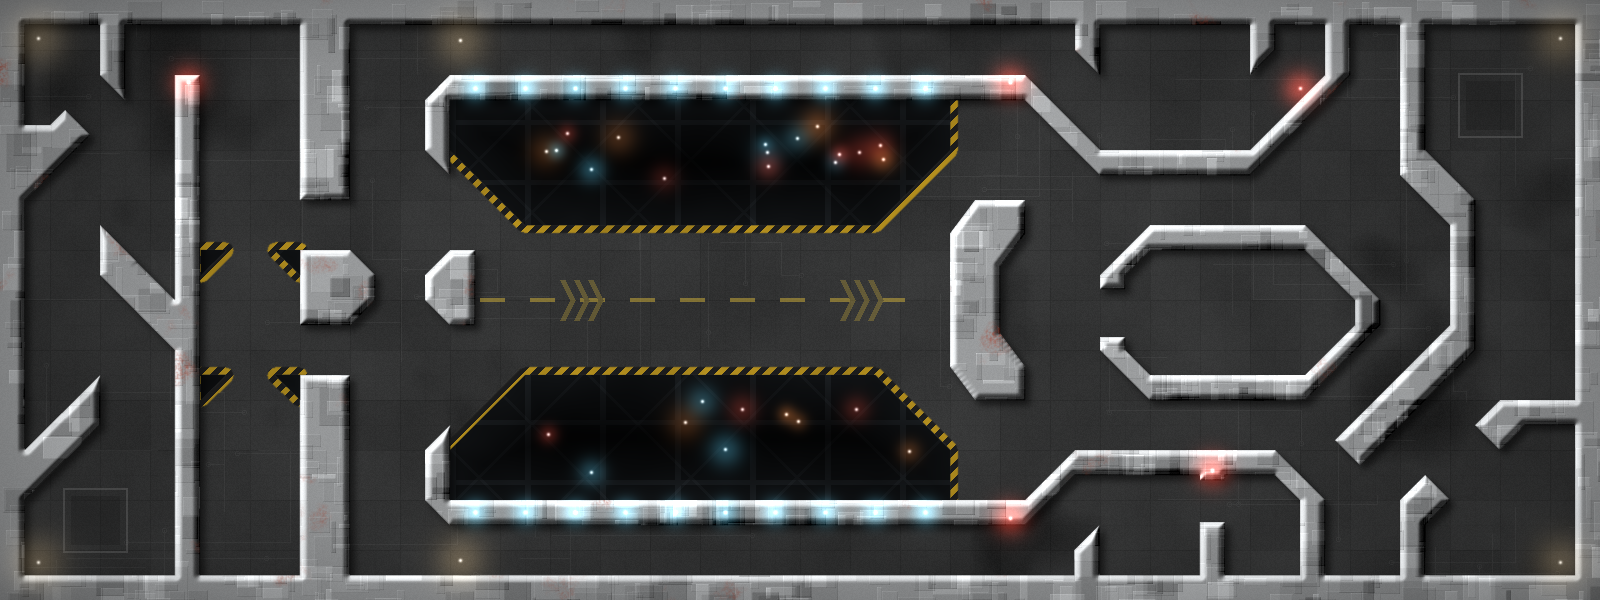
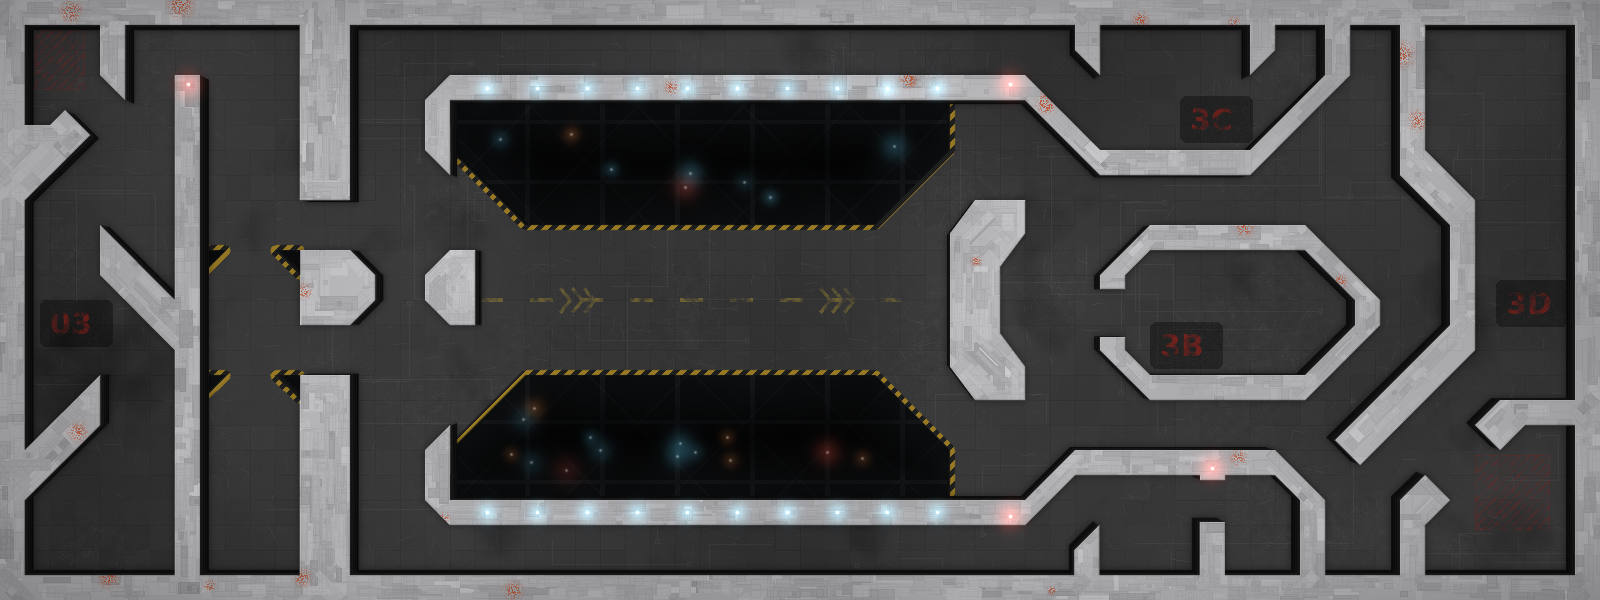
Bridge art: extruded walls, finer detail, closer to the other levels
Second pass after comparing with backgrounds 0-2 up close:
- walls are extruded along z toward a camera over the map centre and
  rendered dark, with stepped side faces, instead of a big bevel
- wall tops are flat plates laid along each wall's run with fine
  outlines and a soft 1px rim; smooth large-scale shading
- floor gets plate outlines, circuit traces, dust patches, scratches,
  stains and stencilled sector decals
- chasm lips drop away the same way; dotty rust splats; subtler lights

Claude-Session: https://claude.ai/code/session_01H47hBDPQBM8s5zFvCsXCoj

diff --git a/tools/art/paint_bridge.py b/tools/art/paint_bridge.py
@@ -4,18 +4,22 @@
 
 Reads source/library/level assets/level3/shape 1.json (black = wall, #999999 =
 chasm the player can't cross but shots fly over, white = floor) and writes
-source/library/level assets/background3/shape 1/bitmap 1.png at 1600x600, in the style
-of the other levels' backgrounds: dark tiled floor, light greebled metal walls
-with bevel and drop shadow, hazard markings, rust, and additive light glows.
-The output lines up with the collision map pixel for pixel, so the walls you see
-are the walls you hit. Seeded, so re-running gives the same image.
+source/library/level assets/background3/shape 1/bitmap 1.png at 1600x600.
+
+It follows how the other levels' backgrounds were made: wall tops are flat light
+plates with fine panel lines, and the walls are extruded along z and rendered
+dark, seen from a camera above the middle of the map, so each wall shows a dark
+stepped side face on the side that faces the centre. The floor is dark plating
+with faint panel and circuit lines, dust patches, scratches, stencilled decals
+and soft lighting. The wall tops line up with the collision map pixel for pixel.
+Seeded, so re-running gives the same image.
 """
 import json
 import os
 import re
 
 import numpy as np
-from PIL import Image, ImageDraw
+from PIL import Image, ImageDraw, ImageFont
 from scipy import ndimage as ndi
 
 ROOT = os.path.join(os.path.dirname(__file__), '..', '..')
@@ -60,12 +64,11 @@ for p in shape['paths']:
 
 
 def down(m):
-    return m.reshape(H, SS, W, SS).mean(axis=(1, 3))
+    return m.reshape(H, SS, W, SS).mean(axis=(1, 3)).astype(np.float32)
 
 
 wall = down(label == 1)    # coverage 0..1, anti-aliased
 chasm = down(label == 2)
-floor = np.clip(1 - wall - chasm, 0, 1)
 wallb, chasmb = wall > 0.5, chasm > 0.5
 
 yy, xx = np.mgrid[0:H, 0:W].astype(np.float32)
@@ -89,128 +92,243 @@ def rgb(h):
     h = h.lstrip('#'); return np.array([int(h[i:i + 2], 16) / 255 for i in (0, 2, 4)], np.float32)
 
 
-img = np.zeros((H, W, 3), np.float32)
+def layer(draw_fn, mode='L'):
+    im = Image.new(mode, (W, H), 0); draw_fn(ImageDraw.Draw(im)); return np.array(im, np.float32) / 255
+
+
+def sample(a, sy, sx):
+    return ndi.map_coordinates(a, [sy, sx], order=1, mode='nearest')
+
+
+# Pseudo-perspective: a camera above the middle of the map. A wall's base sits
+# nearer the centre than its top, by K * (distance from centre) at full height.
+CX, CY, K, MAXOFF = W / 2, H / 2, 0.02, 9.0
+vx = np.clip(K * (xx - CX), -MAXOFF, MAXOFF)
+vy = np.clip(K * (yy - CY), -MAXOFF, MAXOFF)
+
+
+def extrude(solid, steps=14):
+    """Side faces of `solid` (tops) dropping toward the centre. Returns
+    (coverage, t) where t in 0..1 is how far down the face (0 = top edge)."""
+    cov = np.zeros((H, W), np.float32); tt = np.ones((H, W), np.float32)
+    for i in range(steps, 0, -1):  # far (base) first, so nearer steps win
+        t = i / steps
+        s = sample(solid, yy + t * vy, xx + t * vx)
+        hit = s > 0.5
+        tt[hit] = t; cov = np.maximum(cov, s)
+    return cov * (1 - solid), tt
+
 
 # ---------------------------------------------------------------- floor
-grime = noise(80, 5, 1)
-base = 0.20 + 0.05 * (grime - 0.5) + 0.025 * (rng.random((H, W)) - 0.5)
-# 25px deck plates (the level is laid out on a 25px grid) with darker seams
-seam = ((xx % 50 < 1) | (yy % 50 < 1)).astype(np.float32) * 0.5 + ((xx % 25 < 1) | (yy % 25 < 1)) * 0.25
-base -= 0.03 * seam
-plate_var = rng.random((H // 50 + 1, W // 50 + 1)).astype(np.float32)
-base += 0.02 * (np.kron(plate_var, np.ones((50, 50)))[:H, :W] - 0.5)
-# scorch / oil blotches
-blot = np.clip((noise(120, 3, 7) - 0.62) * 4, 0, 1)
-base -= 0.07 * blot
-floor_col = base[..., None] * rgb('#e6e9ea')[None, None] / 0.9
-img += floor_col
+base = np.full((H, W), 0.215, np.float32)
+base += 0.05 * (blur(noise(220, 2, 1), 30) - 0.5) * 2        # soft lighting pools
+base += 0.012 * (rng.random((H, W)) - 0.5)                    # fine grain
 
-# faint circuit traces on the floor, like levels 1 and 2
-trace = Image.new('L', (W, H), 0); td = ImageDraw.Draw(trace)
-for _ in range(70):
-    x, y = rng.integers(25, W - 25), rng.integers(25, H - 25)
-    for _ in range(rng.integers(2, 5)):
-        if rng.random() < 0.5: nx, ny = x + rng.integers(-180, 180), y
-        else: nx, ny = x, y + rng.integers(-120, 120)
-        td.line([(x, y), (nx, ny)], fill=255, width=1); x, y = nx, ny
-    td.ellipse([x - 2, y - 2, x + 2, y + 2], outline=255)
-img += (np.array(trace, np.float32) / 255 * 0.035)[..., None]
+# panel lines: a fine 25px grid plus a scatter of larger plate outlines
+lines = layer(lambda d: [d.line([(x, 0), (x, H)], fill=60) for x in range(0, W, 25)] +
+                        [d.line([(0, y), (W, y)], fill=60) for y in range(0, H, 25)])
+def plates(d):
+    for _ in range(260):
+        x, y = rng.integers(0, W // 25) * 25, rng.integers(0, H // 25) * 25
+        w, h = rng.integers(1, 6) * 25, rng.integers(1, 5) * 25
+        d.rectangle([x, y, x + w, y + h], outline=int(rng.integers(90, 170)))
+    for _ in range(160):  # small inset squares
+        x, y = rng.integers(0, W), rng.integers(0, H); s = rng.integers(4, 14)
+        d.rectangle([x, y, x + s, y + s], outline=90)
+plate_lines = layer(plates)
+base -= 0.018 * lines + 0.03 * plate_lines
+base += 0.01 * ndi.shift(plate_lines, (1, 1), order=0)        # tiny lip highlight
 
-# ---------------------------------------------------------------- chasm (the bridge spans it)
-inside = ndi.distance_transform_edt(chasmb)
-depth = np.clip(inside / 60, 0, 1)
-ch = (0.10 - 0.08 * depth)[..., None] * rgb('#8fa3b5')[None, None]
-# girders far below, receding: a lattice that darkens with depth
-lat = (((xx + yy * 0.0) % 75 < 6) | (yy % 60 < 5)).astype(np.float32)
-diag = (((xx + yy) % 106 < 4) | ((xx - yy) % 106 < 4)).astype(np.float32)
-ch += ((0.06 * lat + 0.035 * diag) * (1 - 0.6 * depth))[..., None] * rgb('#9fb0c0')[None, None]
-ch *= (0.75 + 0.5 * noise(60, 3, 9))[..., None]
-img = img * (1 - chasm[..., None]) + ch * chasm[..., None]
+# plate tone variation
+tone = rng.random((H // 25 + 1, W // 25 + 1)).astype(np.float32)
+base += 0.012 * (np.kron(tone, np.ones((25, 25), np.float32))[:H, :W] - 0.5)
 
-# ---------------------------------------------------------------- walls: greebled metal panels
-pan = np.full((H, W), 0.66, np.float32)
-for _ in range(2600):  # overlapping plates of slightly different tone
-    w, h = rng.integers(4, 40), rng.integers(4, 40)
-    x, y = rng.integers(0, W), rng.integers(0, H)
-    v = rng.normal(0, 0.06)
-    pan[y:y + h, x:x + w] += v
-    pan[y:y + 1, x:x + w] += 0.05; pan[y + h - 1:y + h, x:x + w] -= 0.06
-    pan[y:y + h, x:x + 1] += 0.04; pan[y:y + h, x + w - 1:x + w] -= 0.05
-pan = np.clip(pan, 0.35, 0.95)
-pan += 0.03 * (rng.random((H, W)) - 0.5)
-# bevel: height from distance to the wall edge, lit from the top-left
-dist = ndi.distance_transform_edt(wallb).astype(np.float32)
-height = np.clip(dist / 7, 0, 1) ** 0.6
-gy, gx = np.gradient(blur(height, 1.0))
-light = np.clip(-(gx * -0.7 + gy * -0.7) * 6, -0.5, 0.5)
-edge = np.clip(1 - dist / 2.0, 0, 1)
-wcol = (pan + light * 0.9 - 0.25 * edge)[..., None] * rgb('#e9ecee')[None, None]
+# circuit traces with rounded corners and terminal pads
+def traces(d):
+    for _ in range(55):
+        x, y = int(rng.integers(30, W - 30)), int(rng.integers(30, H - 30))
+        horiz = rng.random() < 0.5
+        pts = [(x, y)]
+        for _ in range(int(rng.integers(2, 5))):
+            if horiz: x = int(np.clip(x + rng.integers(-220, 220), 5, W - 5))
+            else: y = int(np.clip(y + rng.integers(-150, 150), 5, H - 5))
+            pts.append((x, y)); horiz = not horiz
+        d.line(pts, fill=255, width=1, joint='curve')
+        d.rectangle([pts[-1][0] - 2, pts[-1][1] - 2, pts[-1][0] + 2, pts[-1][1] + 2], outline=255)
+base += 0.035 * layer(traces)
 
-# rust and red paint flecks on the walls, like the other levels
-rust = blur(np.clip((noise(40, 4, 3) - 0.74) * 5, 0, 1) * (rng.random((H, W)) > 0.6), 0.7)
-wcol = wcol * (1 - 0.6 * rust[..., None]) + rust[..., None] * rgb('#a8341f')[None, None] * 0.6
+# dust: clusters of fine speckle
+dust = np.zeros((H, W), np.float32)
+for _ in range(40):
+    cx, cy, r = rng.uniform(0, W), rng.uniform(0, H), rng.uniform(15, 45)
+    dust += np.exp(-((xx - cx) ** 2 + (yy - cy) ** 2) / (2 * r * r))
+speck = rng.random((H, W)) > 0.55
+base += 0.05 * np.clip(dust, 0, 1) * speck * (noise(6, 2, 5) - 0.3)
 
-# drop shadow onto the floor and into the chasm (light from the top-left)
-shadow = blur(ndi.shift(wall, (5, 5), order=1, mode='nearest'), 3.5)
-img *= (1 - 0.55 * shadow * (1 - wall))[..., None]
-img = img * (1 - wall[..., None]) + wcol * wall[..., None]
+# scratches: short thin light strokes, mostly along the traffic lanes
+def scratches(d):
+    for _ in range(900):
+        x, y = rng.uniform(0, W), rng.uniform(0, H)
+        a = rng.normal(0, 0.35) + (0 if rng.random() < 0.6 else np.pi / 2)
+        l = rng.uniform(3, 18)
+        d.line([(x, y), (x + l * np.cos(a), y + l * np.sin(a))], fill=int(rng.integers(60, 200)))
+base += 0.05 * layer(scratches)
 
-# ---------------------------------------------------------------- markings on the floor
-over = Image.new('RGBA', (W, H), (0, 0, 0, 0)); od = ImageDraw.Draw(over)
+# oil / scorch stains
+stain = np.clip((noise(90, 4, 7) - 0.66) * 4, 0, 1)
+base -= 0.06 * stain
 
-# yellow/black hazard rim round both chasms, on the floor side
-rim = (ndi.distance_transform_edt(~chasmb) <= 8) & ~chasmb & ~wallb
-stripe = ((xx + yy) % 16 < 8)
-hz = np.where(stripe, 1, 0)[..., None] * rgb('#d7a91c')[None, None] + np.where(stripe, 0, 1)[..., None] * rgb('#1b1b1b')[None, None]
-hz *= (0.8 + 0.2 * noise(30, 3, 4))[..., None]
-rimf = blur(rim, 0.6) * floor
-img = img * (1 - 0.85 * rimf[..., None]) + hz * 0.85 * rimf[..., None]
+img = base[..., None] * np.array([1.0, 1.0, 1.02], np.float32)[None, None]
 
-# bridge deck: centre-line dashes and direction chevrons across the span
+# ---------------------------------------------------------------- decals
+def decals(d):
+    try:
+        font = ImageFont.truetype('/usr/share/fonts/truetype/dejavu/DejaVuSans-Bold.ttf', 30)
+        small = ImageFont.truetype('/usr/share/fonts/truetype/dejavu/DejaVuSans-Bold.ttf', 14)
+    except OSError:
+        font = small = ImageFont.load_default()
+    return font, small
+
+font, small = decals(None)
+red = Image.new('L', (W, H), 0); rd = ImageDraw.Draw(red)
+yel = Image.new('L', (W, H), 0); ydr = ImageDraw.Draw(yel)
+plate = Image.new('L', (W, H), 0); pd = ImageDraw.Draw(plate)
+# stencilled sector numbers on dark plates, as in Drop Zone ("326")
+blocked = ndi.binary_dilation(wallb | chasmb, iterations=6)
+
+
+def clear_spot(x, y, w, h):
+    # nearest spot to (x, y) where a w*h decal sits on open floor
+    for r in range(0, 200, 4):
+        for dx, dy in [(0, 0), (r, 0), (-r, 0), (0, r), (0, -r), (r, r), (-r, r), (r, -r), (-r, -r)]:
+            X, Y = x + dx, y + dy
+            if 0 <= X and 0 <= Y and X + w < W and Y + h < H and not blocked[Y:Y + h, X:X + w].any():
+                return X, Y
+    raise ValueError((x, y))
+
+
+for (x, y, txt) in [(40, 300, '03'), (1150, 410, "3B"), (1180, 100, '3C'), (1500, 280, '3D')]:
+    w = 26 * len(txt) + 20
+    x, y = clear_spot(x, y, w, 46)
+    pd.rounded_rectangle([x, y, x + w, y + 46], 6, fill=255)
+    rd.text((x + 10, y + 6), txt, font=font, fill=230)
+# bridge deck: centre dashes and chevrons
 for x in range(480, 930, 50):
-    od.rectangle([x, 298, x + 24, 301], fill=(225, 190, 60, 120))
-for cx in (560, 840):
+    ydr.rectangle([x, 298, x + 22, 301], fill=200)
+for cx in (560, 820):
     for k in range(3):
-        x0 = cx + k * 14
-        od.polygon([(x0, 280), (x0 + 10, 300), (x0, 320), (x0 + 5, 320), (x0 + 15, 300), (x0 + 5, 280)], fill=(225, 190, 60, 70))
+        x0 = cx + k * 12
+        ydr.line([(x0, 288), (x0 + 10, 300), (x0, 312)], fill=170, width=3)
+# red hatched danger boxes in the two big end rooms
+for (x, y, w, h) in [(1475, 455, 75, 75), (35, 30, 50, 60)]:
+    box = Image.new('L', (w, h), 0); bd = ImageDraw.Draw(box)
+    for i in range(-h, w, 9): bd.line([(i, h), (i + h, 0)], fill=150, width=3)
+    bd.rectangle([0, 0, w - 1, h - 1], outline=200)
+    red.paste(box, (x, y), box)
 
-# east and west landing pads
-for (x, y) in [(1490, 105), (95, 520)]:
-    od.rectangle([x - 32, y - 32, x + 32, y + 32], outline=(200, 200, 200, 50), width=2)
-    od.rectangle([x - 24, y - 24, x + 24, y + 24], fill=(0, 0, 0, 35))
+wear = np.clip(noise(5, 2, 11) * 1.6 - 0.25, 0, 1)            # chipped paint
+pl = np.array(plate, np.float32) / 255
+img *= (1 - 0.35 * pl)[..., None]
+img += (0.025 * pl * (rng.random((H, W)) - 0.5))[..., None]
+ra = np.array(red, np.float32) / 255 * wear
+ya = np.array(yel, np.float32) / 255 * wear
+img = img * (1 - 0.7 * ra[..., None]) + rgb('#9c2018')[None, None] * 0.7 * ra[..., None]
+img = img * (1 - 0.55 * ya[..., None]) + rgb('#b89a2e')[None, None] * 0.55 * ya[..., None]
 
-ov = np.array(over, np.float32) / 255
-ov_a = ov[..., 3:4] * floor[..., None]
-img = img * (1 - ov_a) + ov[..., :3] * ov_a
+# ---------------------------------------------------------------- chasms
+# the floor plate's edge drops away into the chasm: extrude the floor down
+notch = 1 - chasm
+pside, pt = extrude(notch * (1 - wall) + wall)
+inside = ndi.distance_transform_edt(chasmb).astype(np.float32)
+depth = np.clip(inside / 70, 0, 1)
+ch = (0.075 - 0.06 * depth)[..., None] * rgb('#9aaabb')[None, None]
+lat = ((xx % 75 < 5) | (yy % 60 < 4)).astype(np.float32)
+diag = (((xx + yy) % 106 < 3) | ((xx - yy) % 106 < 3)).astype(np.float32)
+ch += ((0.05 * lat + 0.025 * diag) * (1 - 0.7 * depth))[..., None] * rgb('#9fb0c0')[None, None]
+ch *= (0.8 + 0.4 * noise(50, 3, 9))[..., None]
+img = img * (1 - chasm[..., None]) + ch * chasm[..., None]
+# the drop face of the floor plate: dark with fine steps
+step = (np.floor(pt * 14) % 2) * 0.012
+pcol = (0.10 - 0.07 * pt + step)
+pcov = pside * chasm
+img = img * (1 - pcov[..., None]) + pcol[..., None] * pcov[..., None]
+# thin hazard edge along the lip
+lip = (ndi.distance_transform_edt(~chasmb) <= 5) & ~chasmb & ~wallb
+stripe = ((xx + yy) % 14 < 7)
+lipf = blur(lip, 0.5)
+hz = np.where(stripe[..., None], rgb('#b8901c')[None, None], rgb('#161616')[None, None])
+img = img * (1 - 0.75 * lipf[..., None]) + hz * 0.75 * lipf[..., None]
 
-# ---------------------------------------------------------------- additive glows
+# ---------------------------------------------------------------- walls
+side, st = extrude(wall, steps=18)
+# ambient occlusion where the extruded side meets the floor
+ao = blur(np.maximum(side, wall), 4)
+img *= (1 - 0.45 * ao * (1 - wall) * (1 - side))[..., None]
+step = (np.floor(st * 9) % 2) * 0.025
+scol = 0.035 + 0.07 * (1 - st) ** 2 + step
+img = img * (1 - side[..., None]) + scol[..., None] * side[..., None]
+
+# wall tops: flat plates of slightly different greys with fine outlines, laid
+# along each wall's run (rotated on the diagonals), like the hand-built walls
+top = np.full((H, W), 0.70, np.float32)
+top += 0.05 * (blur(noise(160, 2, 21), 20) - 0.5) * 2        # smooth large shading
+dist = ndi.distance_transform_edt(wallb).astype(np.float32)
+ny, nx = np.gradient(blur(dist, 2.5))                         # points into the wall
+outl = Image.new('L', (W, H), 0); od = ImageDraw.Draw(outl)
+fill = Image.new('L', (W, H), 128); fd = ImageDraw.Draw(fill)
+cand = np.argwhere(wallb)
+for _ in range(2600):
+    cy, cx = cand[rng.integers(len(cand))]
+    a = np.arctan2(ny[cy, cx], nx[cy, cx]) + np.pi / 2       # along the wall
+    a = np.round(a / (np.pi / 4)) * (np.pi / 4)
+    L, T = rng.uniform(8, 50), rng.uniform(4, 14)
+    if rng.random() < 0.15: L, T = T, L * 0.5                 # occasional cross plate
+    ca, sa = np.cos(a), np.sin(a)
+    pts = [(cx + ca * u - sa * v, cy + sa * u + ca * v) for u, v in
+           [(-L / 2, -T / 2), (L / 2, -T / 2), (L / 2, T / 2), (-L / 2, T / 2)]]
+    fd.polygon(pts, fill=int(np.clip(128 + rng.normal(0, 14), 90, 170)))
+    od.polygon(pts, outline=int(rng.integers(60, 140)))
+    if rng.random() < 0.04:                                   # small dark sockets
+        od.rectangle([cx - 2, cy - 2, cx + 2, cy + 2], fill=200)
+top += (np.array(fill, np.float32) - 128) / 255 * 0.55
+top -= 0.07 * np.array(outl, np.float32) / 255
+top += 0.006 * (rng.random((H, W)) - 0.5)
+# a soft rim: 1px light top-left lip and slightly darker bottom-right edge
+gy, gx = np.gradient(blur(wall, 0.8))
+rim = np.clip(1.5 - dist, 0, 1)
+top += rim * np.clip((gx + gy) * 2.0, -0.12, 0.12)
+top -= 0.05 * np.clip(1 - dist / 3, 0, 1)
+tcol = top[..., None] * np.array([1.0, 1.0, 1.015], np.float32)[None, None]
+# rust and red paint splats: a few dotty clusters
+rust = np.zeros((H, W), np.float32)
+for _ in range(22):
+    cy, cx = cand[rng.integers(len(cand))]; r = rng.uniform(3, 9)
+    rust += np.exp(-((xx - cx) ** 2 + (yy - cy) ** 2) / (2 * r * r))
+rust = np.clip(rust * 1.3 - 0.15, 0, 1) * (rng.random((H, W)) > 0.6) * wall
+tcol = tcol * (1 - 0.75 * rust[..., None]) + rust[..., None] * rgb('#c0441f')[None, None] * 0.75
+img = img * (1 - wall[..., None]) + tcol * wall[..., None]
+
+# ---------------------------------------------------------------- lights (additive)
 glow = np.zeros_like(img)
 
 
-def lamp(x, y, col, r=10, k=0.6):
+def lamp(x, y, col, r=10, k=0.6, core=0.6):
     d2 = (xx - x) ** 2 + (yy - y) ** 2
     glow[...] += (np.exp(-d2 / (2 * r * r)) * k)[..., None] * rgb(col)[None, None]
-    glow[...] += (np.exp(-d2 / 3.0) * 0.8)[..., None] * rgb('#ffffff')[None, None]
+    glow[...] += (np.exp(-d2 / 2.0) * core)[..., None] * rgb('#ffffff')[None, None]
 
 
-# running lights along the bridge rails (the chasm-side walls)
-for x in range(475, 950, 50):
-    lamp(x, 88, '#5fd7ff', 9, 0.5); lamp(x, 512, '#5fd7ff', 9, 0.5)
-# lights deep in the chasm
-for _ in range(26):
-    m = np.argwhere(inside > 25)
+for x in range(487, 950, 50):          # running lights on the bridge rails
+    lamp(x, 88, '#5fd7ff', 7, 0.3, 0.5); lamp(x, 512, '#5fd7ff', 7, 0.3, 0.5)
+m = np.argwhere(inside > 25)
+for _ in range(22):                     # lights deep in the chasms
     y, x = m[rng.integers(len(m))]
-    lamp(x, y, rng.choice(['#ff8a3c', '#5fd7ff', '#ff5040']), rng.uniform(6, 14), rng.uniform(0.15, 0.35))
-# warning lamps by the doors and in the corners of the big rooms
-for (x, y) in [(188, 82), (1010, 82), (1010, 518), (1212, 470), (1300, 88)]:
-    lamp(x, y, '#ff4030', 12, 0.55)
-for (x, y) in [(38, 38), (1560, 38), (38, 562), (1560, 562), (460, 40), (460, 560)]:
-    lamp(x, y, '#ffd28a', 18, 0.25)
-img = img + glow  # additive, like the game's ADD-blended lights
+    lamp(x, y, str(rng.choice(['#ff8a3c', '#5fd7ff', '#ff5040'])), rng.uniform(5, 10), rng.uniform(0.1, 0.22), 0.35)
+for (x, y) in [(188, 84), (1010, 84), (1010, 516), (1212, 468)]:
+    lamp(x, y, '#ff4030', 9, 0.35, 0.6)
+img = img + glow
 
-# light vignette so the playfield edges sit back
-vig = 1 - 0.18 * (((xx / W - 0.5) * 2) ** 4 + ((yy / H - 0.5) * 2) ** 4)
-img *= vig[..., None]
+img *= (1 - 0.12 * (((xx / W - 0.5) * 2) ** 4 + ((yy / H - 0.5) * 2) ** 4))[..., None]
 
 out = (np.clip(img, 0, 1) * 255 + 0.5).astype(np.uint8)
 Image.fromarray(out, 'RGB').convert('RGBA').save(OUT, optimize=True)
